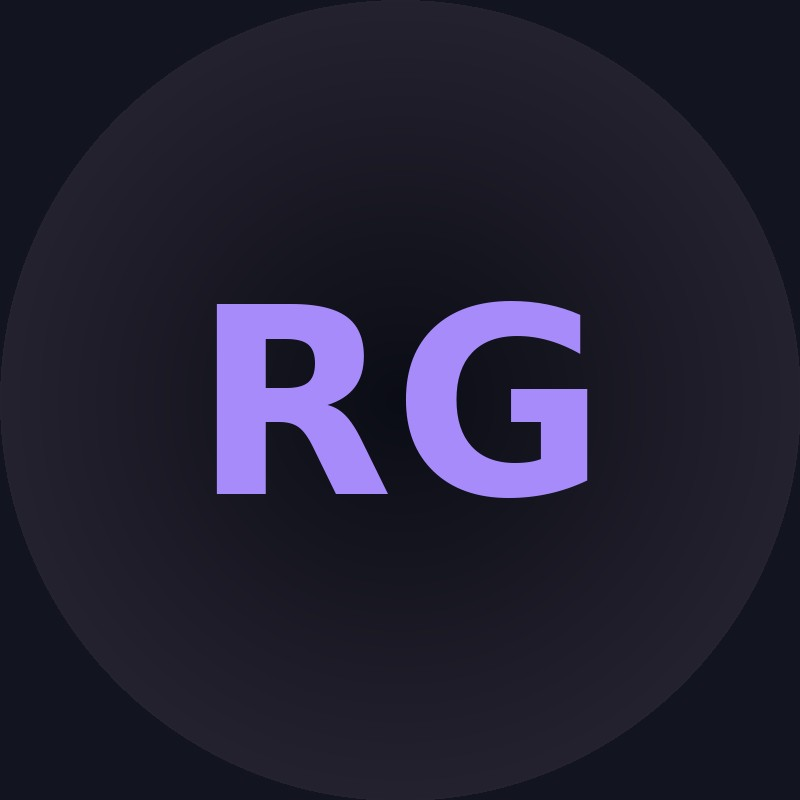
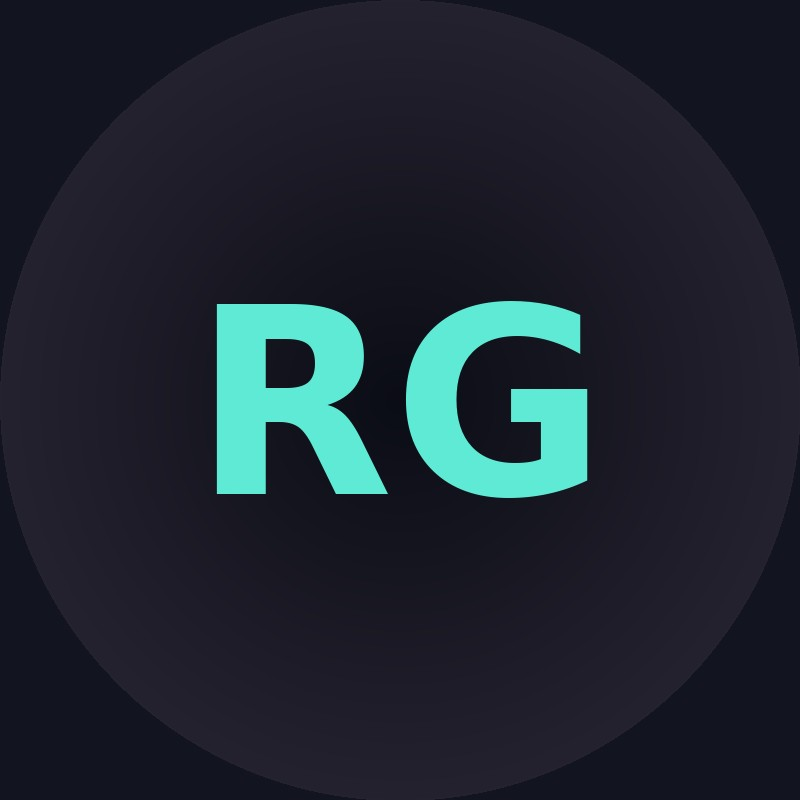
Switch accent color to teal (#5eead4 / #2dd4bf) per request

Changed region(s): [[0.5, 0.375, 0.75, 0.625], [0.25, 0.375, 0.5, 0.625]]

diff --git a/src/app/globals.css b/src/app/globals.css
@@ -6,9 +6,9 @@
   --surface-alt: #191c2b;
   --foreground: #edeef4;
   --muted: #949bb0;
-  --accent: #a78bfa;
-  --accent-soft: #8b5cf6;
-  --accent-contrast: #1a1025;
+  --accent: #5eead4;
+  --accent-soft: #2dd4bf;
+  --accent-contrast: #04211c;
   --border: #262a3c;
 }
 
@@ -18,9 +18,9 @@
   --surface-alt: #191c2b;
   --foreground: #edeef4;
   --muted: #949bb0;
-  --accent: #a78bfa;
-  --accent-soft: #8b5cf6;
-  --accent-contrast: #1a1025;
+  --accent: #5eead4;
+  --accent-soft: #2dd4bf;
+  --accent-contrast: #04211c;
   --border: #262a3c;
 }
 
@@ -30,8 +30,8 @@
   --surface-alt: #eeedf7;
   --foreground: #14151f;
   --muted: #5c5f70;
-  --accent: #7c3aed;
-  --accent-soft: #6d28d9;
+  --accent: #0f9d8c;
+  --accent-soft: #0d8a7a;
   --accent-contrast: #ffffff;
   --border: #e3e2ef;
 }